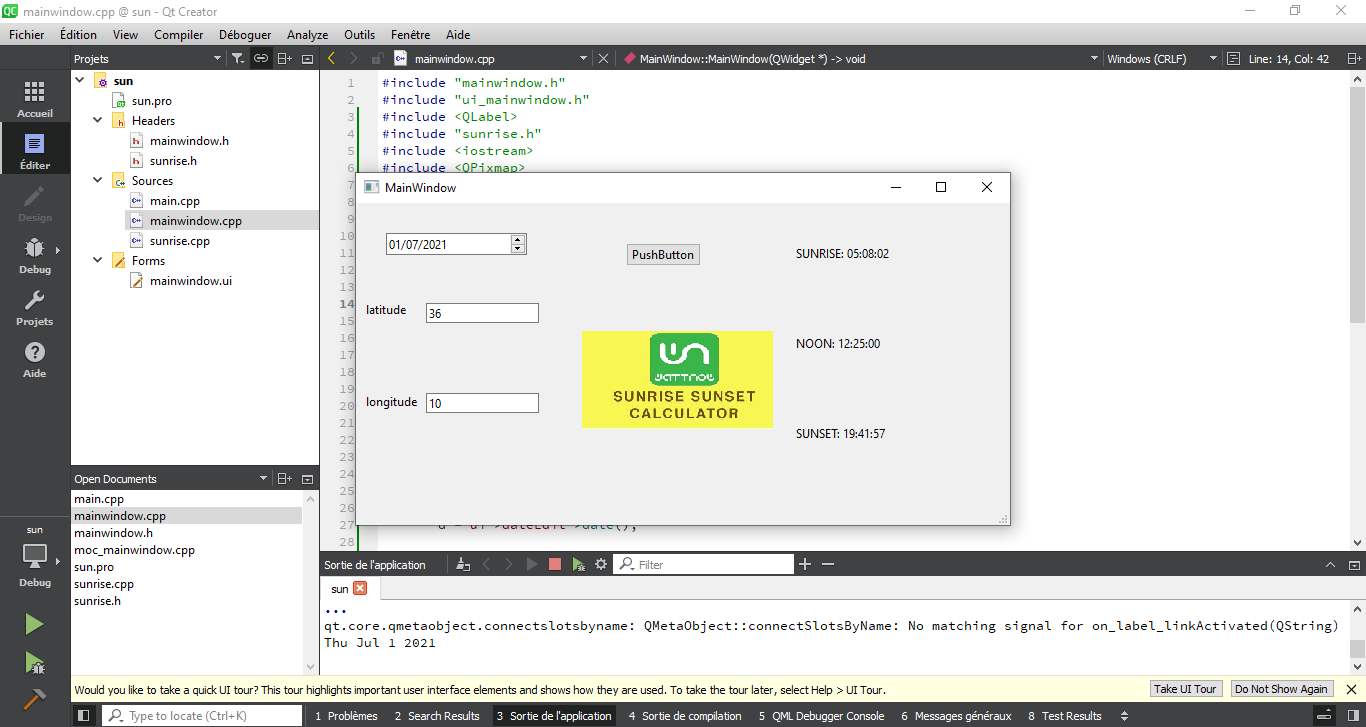
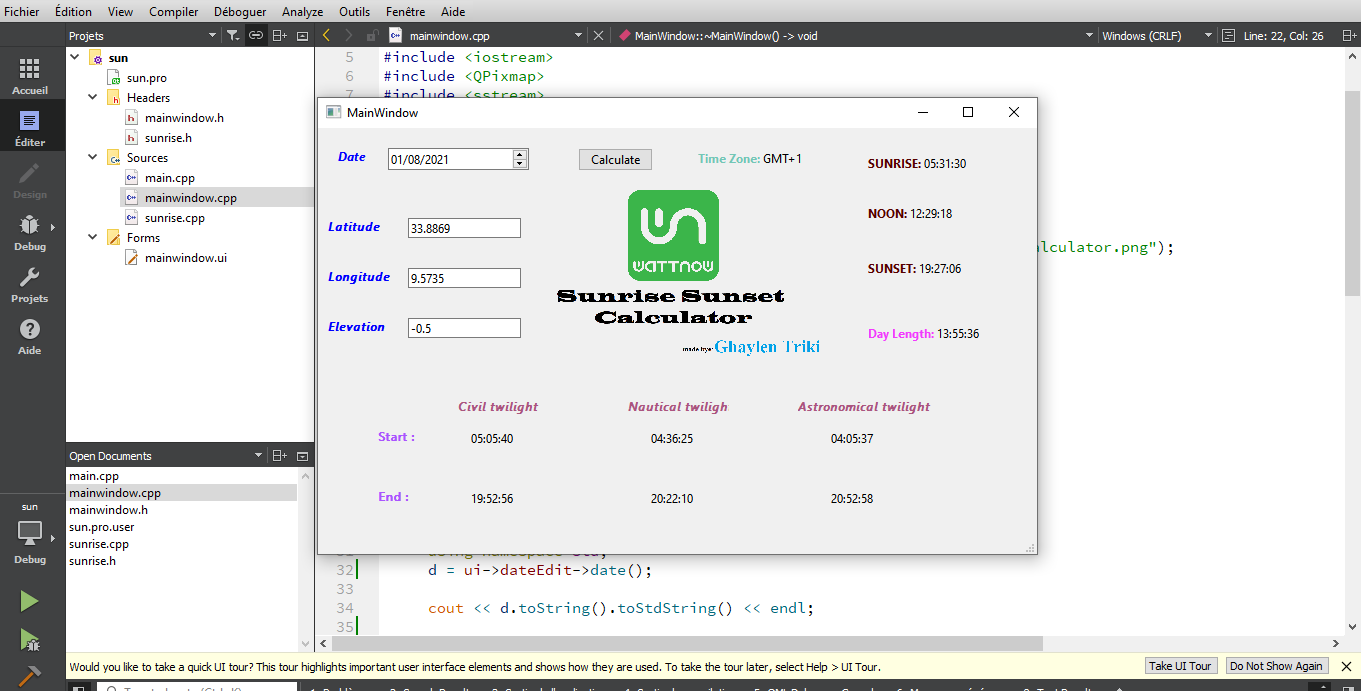
add twilight outputs and day length

diff --git a/Code/code with C++ Qt/sunrise.h b/Code/code with C++ Qt/sunrise.h
@@ -14,16 +14,19 @@ class Sunrise
 public:
 
     Sunrise(double latitude_, double longitude_, double elevation_ = 0);
-
+    int* DoubleToQTime(double);
 
     double timezone (double longitude)
     {
-        return longitude > 0 ? floor((7.5+longitude)/15) : ceil((-7.5+longitude)/15) ;
+        double t=(floor((7.5+longitude)/15)-1);
+        return longitude > 0 ? (floor((7.5+longitude)/15)-1) : (ceil((-7.5+longitude)/15)-1) ;
     }
+
 
     QTime sunrise(const QDate &d);
     QTime noon(const QDate &d);
     QTime sunset(const QDate &d);
+    QTime DayLength(const QDate &d);
 
     static double angle(int degrees, int minutes, int seconds)
     {
@@ -37,12 +40,10 @@ public:
     }
 
 private:
-    //  Convert radian angle to degrees
     double dRadToDeg(double dAngleRad)
     {
         return (180.0 * dAngleRad / M_PI);
     }
-    //  Convert degree angle to radians
     double dDegToRad(double dAngleDeg)
     {
         return (M_PI * dAngleDeg / 180.0);
@@ -55,20 +56,24 @@ private:
             a += 360.0;
         return a;
     }
+
     double julianCycle(int iJulianDay)
     {
         double n = double(iJulianDay) - 2451545.0009 - longitude / 360.0;
         return floor(n + 0.5);
     }
+
     double solarNoonApprox(int iJulianDay)
     {
         return 2451545.0009  + longitude / 360.0 + julianCycle(iJulianDay);
     }
+
     double solarMean(double noon)
     {
         double m = 357.5291 + 0.98560028 * (noon - 2451545.0);
         return normalizedAngle(m);
     }
+
     double center(double mean)
     {
         double m1 = normalizedAngle(mean * 1.0);
@@ -79,45 +84,45 @@ private:
         m3 = sin(dDegToRad(m3));
         return 1.9148*m1 + 0.0200*m2 + 0.0003*m3;
     }
+
     double gamma(double m)
     {
         double c = center(m);
         return normalizedAngle(m + 102.9372 + c + 180.0);
     }
-    double solarTransit(double noon)
+
+    double solarTransit(double noon, double longitude)
     {
         double m = solarMean(noon);
         double g = gamma(m);
         m = sin(dDegToRad(m));
         g = normalizedAngle(g * 2.0);
         g = sin(dDegToRad(g));
+        /*cout <<"solar transit is: "<<noon + 0.0053*m - 0.0069*g<<endl;
+        double st= (noon + 0.0053*m - 0.0069*g)+(timezone(longitude)/24);
+        cout <<"transit= "<<st-(noon + 0.0053*m - 0.0069*g)<<endl;*/
         return noon + 0.0053*m - 0.0069*g;
     }
+
     bool omega(double &o, double noon)
     {
         double m = solarMean(noon);
         double g = gamma(m);
         double l = dDegToRad(latitude);
         double sd = sin(dDegToRad(g)) * sin(dDegToRad(23.45));
-
-        cout <<"sun declination "<<sd<< endl;
-
         double cd = cos(asin(sd));
         double el = 0;
-        if (elevation > 0.0) {
-         // el = -2.076;
-         // el *= sqrt(elevation) / 60.0;
-            el= -2.076*elevation/M_PI;
+        if (elevation < 0.0) {
+            el= 2.776*elevation/M_PI;
         }
-        cout <<"sun elevation "<<-elevation << endl;
-
-        o = sin(dDegToRad(-0.83 + el)) - sin(l)*sd;
+         o = sin(dDegToRad(-0.83 + el)) - sin(l)*sd;
         o /= cos(l) * cd;
         if (o > 1.0 || o < -1.0)
           return false;
         o = dRadToDeg(acos(o));
         return true;
     }
+
     double sunset(int iJulianDay)
      {
         double noon = solarNoonApprox(iJulianDay);
@@ -134,11 +139,13 @@ private:
         return 2451545.0009 + o + julianCycle(iJulianDay) + 0.0053*m - 0.0069*g;
 
     }
+
     double noon(int iJulianDay)
     {
         double noon = solarNoonApprox(iJulianDay);
-        return solarTransit(noon);
+        return solarTransit(noon,longitude);
     }
+
     double sunrise(int iJulianDay)
     {
         double transit = noon(iJulianDay);
@@ -146,6 +153,13 @@ private:
         return ss < 0.0 ? -1.0 : transit - (ss - transit);
     }
 
+    double DayLength(int iJulianDay)
+    {
+        double ss = sunset(iJulianDay);
+        double sr = sunrise(iJulianDay);
+        cout <<"day length is "<<ss - sr<<endl;
+        return ss < 0.0 ? -1.0 : 0.5+ (ss - sr);
+    }
 
     QDateTime date(double julian);
     int julian(const QDate &d);

diff --git a/Code/code with C++ Qt/mainwindow.cpp b/Code/code with C++ Qt/mainwindow.cpp
@@ -12,8 +12,11 @@ MainWindow::MainWindow(QWidget *parent)
     , ui(new Ui::MainWindow)
 {
     ui->setupUi(this);
-    QPixmap pix("D:/ACADEMIQUE/stage/stage WATTNOW/code/picture.jpg");
-    ui->label_Pic->setPixmap(pix.scaled(200,200,Qt::KeepAspectRatio));
+    QPixmap pix("D:/ACADEMIQUE/stage/stage WATTNOW/code/sunrise&sunset calculator.png");
+    ui->label_Pic->setPixmap(pix.scaled(311,181,Qt::KeepAspectRatio));
+    ui->dateEdit->setDate(QDate(2021,8,1));
+    ui->lineEdit_longitude->setText("9.5735");
+    ui->lineEdit_latitude->setText("33.8869");
 }
 
 MainWindow::~MainWindow()
@@ -26,31 +29,51 @@ void MainWindow::on_pushButton_clicked()
 {
     QDate d;
      using namespace std;
-       d = ui->dateEdit->date();
+     d = ui->dateEdit->date();
 
      cout << d.toString().toStdString() << endl;
-
 
      Sunrise sunrise(ui->lineEdit_latitude->text().toDouble(), ui->lineEdit_longitude->text().toDouble(), ui->lineEdit_elevation->text().toDouble());
 
      double longit = ui->lineEdit_longitude->text().toDouble();
      cout << "longit= "<<longit<<endl;
 
-     ostringstream  ss1;
-     double timez= sunrise.timezone(longit);
+    ostringstream  ss1;
+     double timez= sunrise.timezone(longit)+1;
      cout << "timezone= "<<timez<<endl;
-
-
 
      ss1<<timez;
      string d_str1 = ss1.str();
 
+    //ui->label_sunrise->setText("SUNRISE: "+sunrise.sunrise(d).toString()+ " UTC "+QString::fromUtf8(d_str1.c_str()));
+    ui->label_sunrise->setText("<b> <font color='#550000'>SUNRISE: </font></b>"+sunrise.sunrise(d).toString());
+    ui->label_noon->setText("<b> <font color='#550000'>NOON:    </font></b>"+sunrise.noon(d).toString());
+    ui->label_sunset->setText("<b> <font color='#550000'>SUNSET:   </font></b>"+sunrise.sunset(d).toString());
 
-    ui->label_sunrise->setText("SUNRISE: "+sunrise.sunrise(d).toString()+ " UTC "+QString::fromUtf8(d_str1.c_str()));
-    ui->label_noon->setText("NOON: "+sunrise.noon(d).toString()+ " UTC "+QString::fromUtf8(d_str1.c_str()));
-    ui->label_sunset->setText("SUNSET: "+sunrise.sunset(d).toString()+ " UTC "+QString::fromUtf8(d_str1.c_str()));
+    ui->label_DayLength->setText("<b> <font color='#f23aff'>Day Length: </font></b>"+sunrise.DayLength(d).toString()+ " ");
 
+    //civil twilight: elevation angle of the sun= -6°
+    Sunrise CivilTwilight(ui->lineEdit_latitude->text().toDouble(), ui->lineEdit_longitude->text().toDouble(), -6);
 
+    ui->label_CTS->setText(" "+CivilTwilight.sunrise(d).toString());
+    ui->label_CTE->setText(" "+CivilTwilight.sunset(d).toString());
+
+    //Nautical twilight: elevation angle of the sun= -12°
+    Sunrise NauticalTwilight(ui->lineEdit_latitude->text().toDouble(), ui->lineEdit_longitude->text().toDouble(), -12);
+
+    ui->label_NTS->setText(" "+NauticalTwilight.sunrise(d).toString());
+    ui->label_NTE->setText(" "+NauticalTwilight.sunset(d).toString());
+
+    //Astronomical twilight: elevation angle of the sun= -18°
+    Sunrise AstronomicalTwilight(ui->lineEdit_latitude->text().toDouble(), ui->lineEdit_longitude->text().toDouble(), -18);
+
+    ui->label_ATS->setText(" "+AstronomicalTwilight.sunrise(d).toString());
+    ui->label_ATE->setText(" "+AstronomicalTwilight.sunset(d).toString());
+
+    if(timez>0)
+    ui->label_timezone->setText("<b> <font color='#73C6B6'>Time Zone: </font></b>   GMT+"+QString::fromUtf8(d_str1.c_str()));
+
+    else ui->label_timezone->setText("<b> <font color='#73C6B6'>Time Zone:  </font></b>  GMT"+QString::fromUtf8(d_str1.c_str()));
 
 
 }

diff --git a/Code/code with C++ Qt/sunrise.cpp b/Code/code with C++ Qt/sunrise.cpp
@@ -25,7 +25,13 @@ QTime Sunrise::sunrise(const QDate &d)
         return QTime();
 
     double j = sunrise(julian(d));
-    return date(j).time();
+    QTime currentTime;
+
+     currentTime =date(j).time();
+     int x = (int)timezone(-longitude);
+     currentTime =( currentTime.addSecs(x*3600));
+     return currentTime;
+
 }
 
 QTime Sunrise::noon(const QDate &d)
@@ -34,7 +40,12 @@ QTime Sunrise::noon(const QDate &d)
         return QTime();
 
     double j = noon(julian(d));
-    return date(j).time();
+    QTime currentTime;
+
+     currentTime =date(j).time();
+     int x = (int)timezone(-longitude);
+     currentTime =( currentTime.addSecs(x*3600));
+     return currentTime;
 }
 
 QTime Sunrise::sunset(const QDate &d)
@@ -43,6 +54,20 @@ QTime Sunrise::sunset(const QDate &d)
         return QTime();
 
     double j = sunset(julian(d));
+    QTime currentTime;
+
+     currentTime =date(j).time();
+     int x = (int)timezone(-longitude);
+     currentTime =( currentTime.addSecs(x*3600));
+     return currentTime;
+}
+
+QTime Sunrise::DayLength(const QDate &d)
+{
+    if (!d.isValid())
+        return QTime();
+
+    double j = DayLength(julian(d));
     return date(j).time();
 }
 
@@ -57,4 +82,6 @@ QDateTime Sunrise::date(double julian)
     double julianMSecs = (julian - static_cast<double>(julianDays)) * 86400.0 * 1000.0;
     // Julian days start at noon (12:00 UTC)
     return QDateTime(d, QTime(12, 0, 0, 0), Qt::UTC).addMSecs(qRound(julianMSecs)).toLocalTime();
+
+
 }
